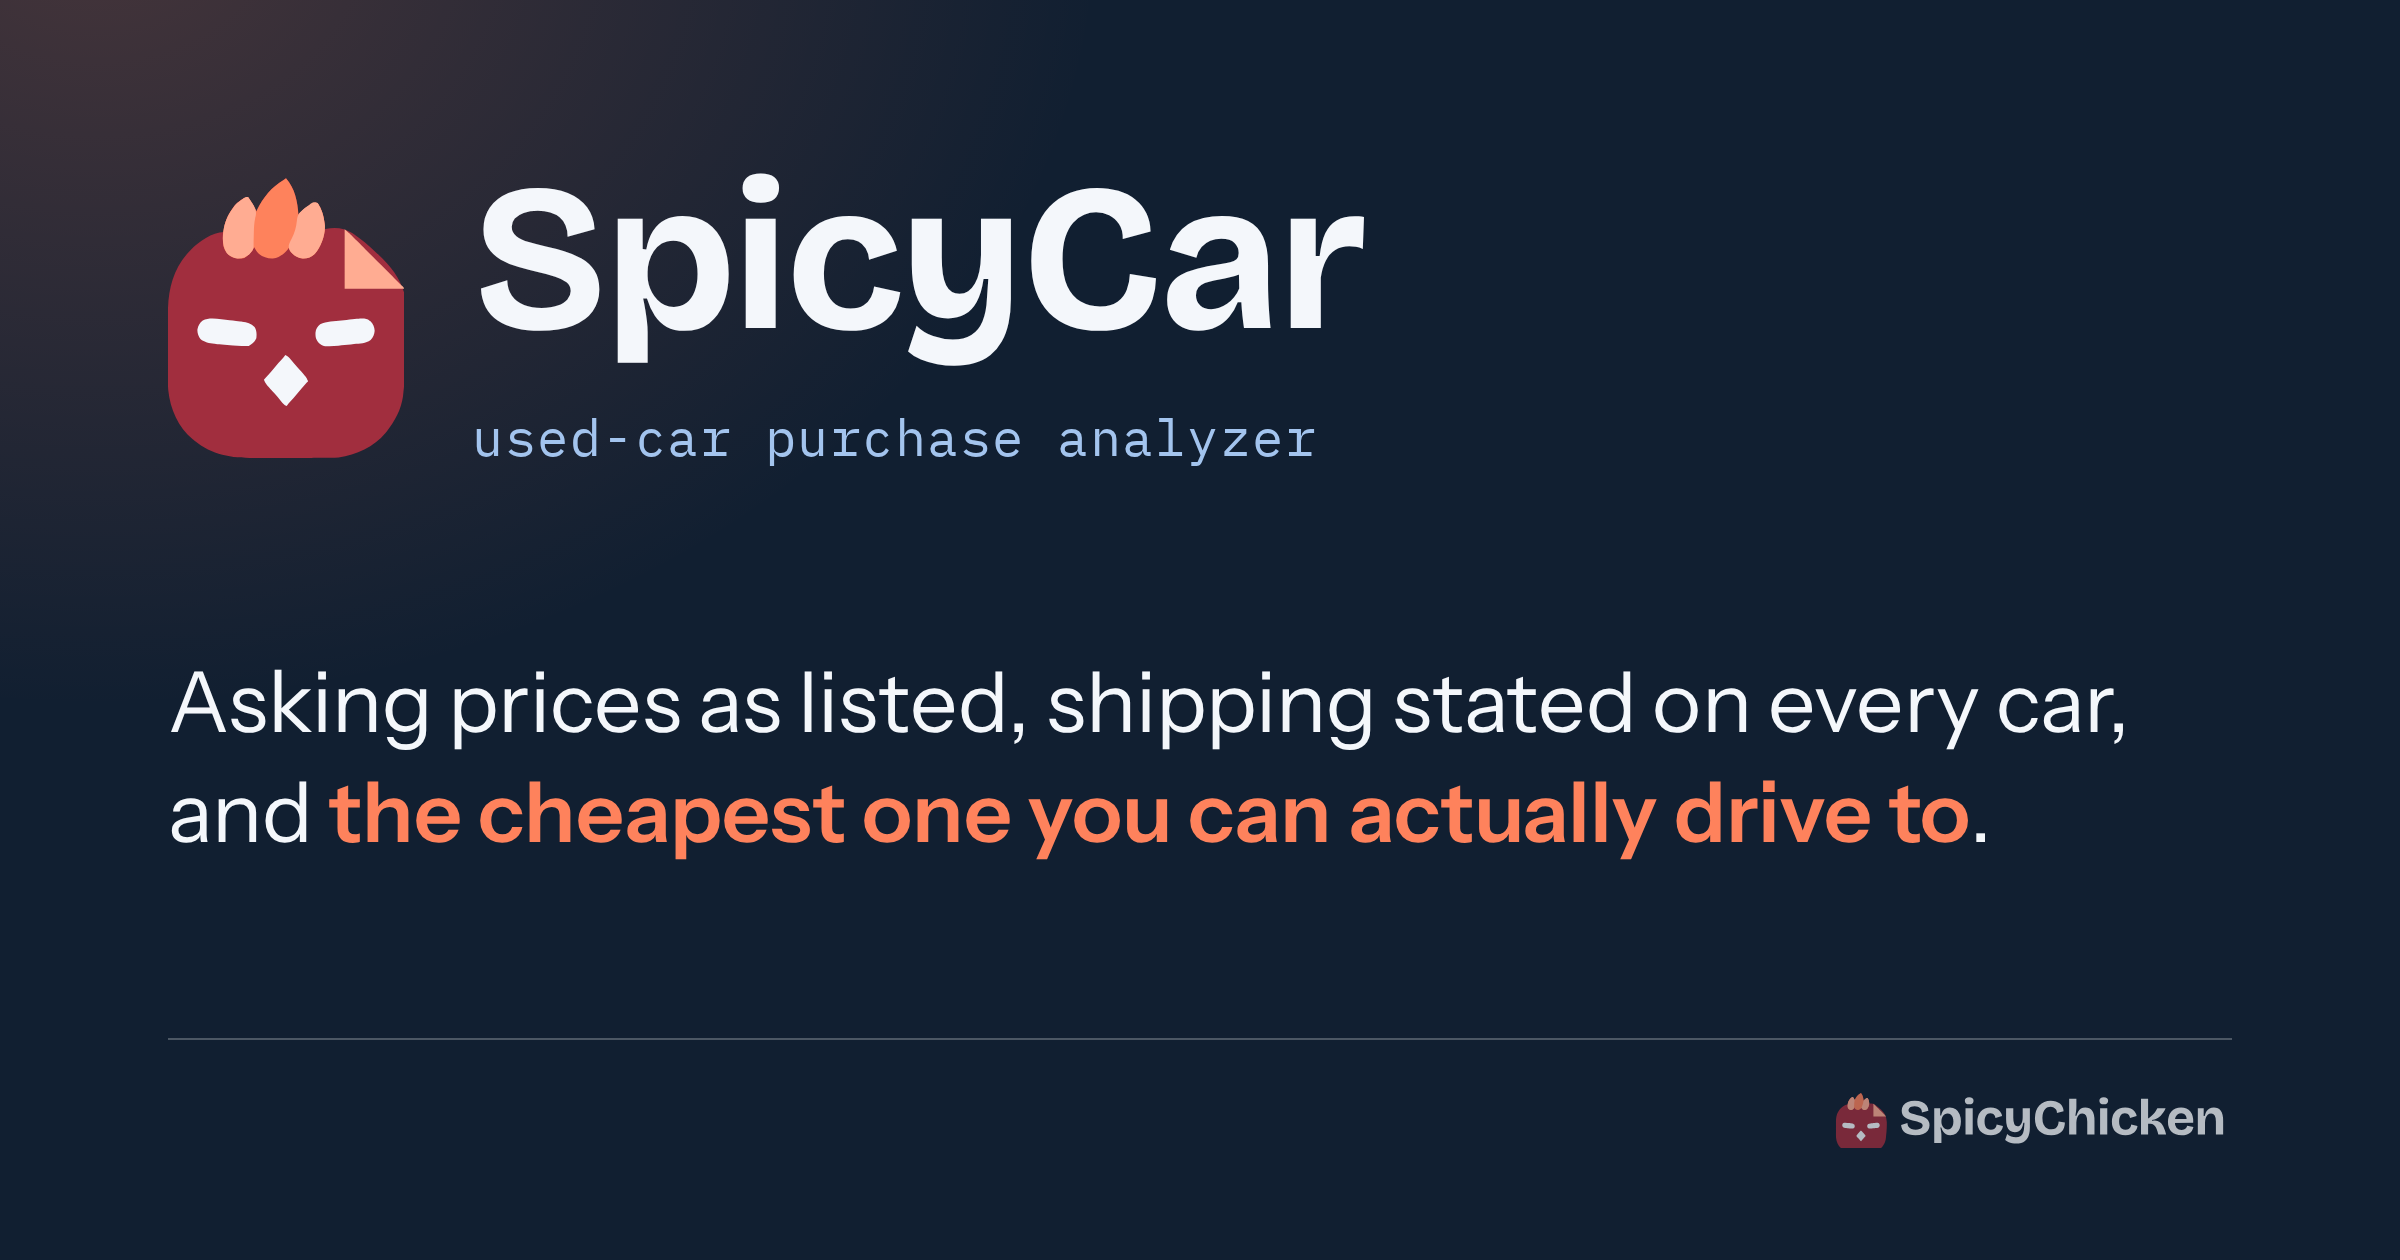
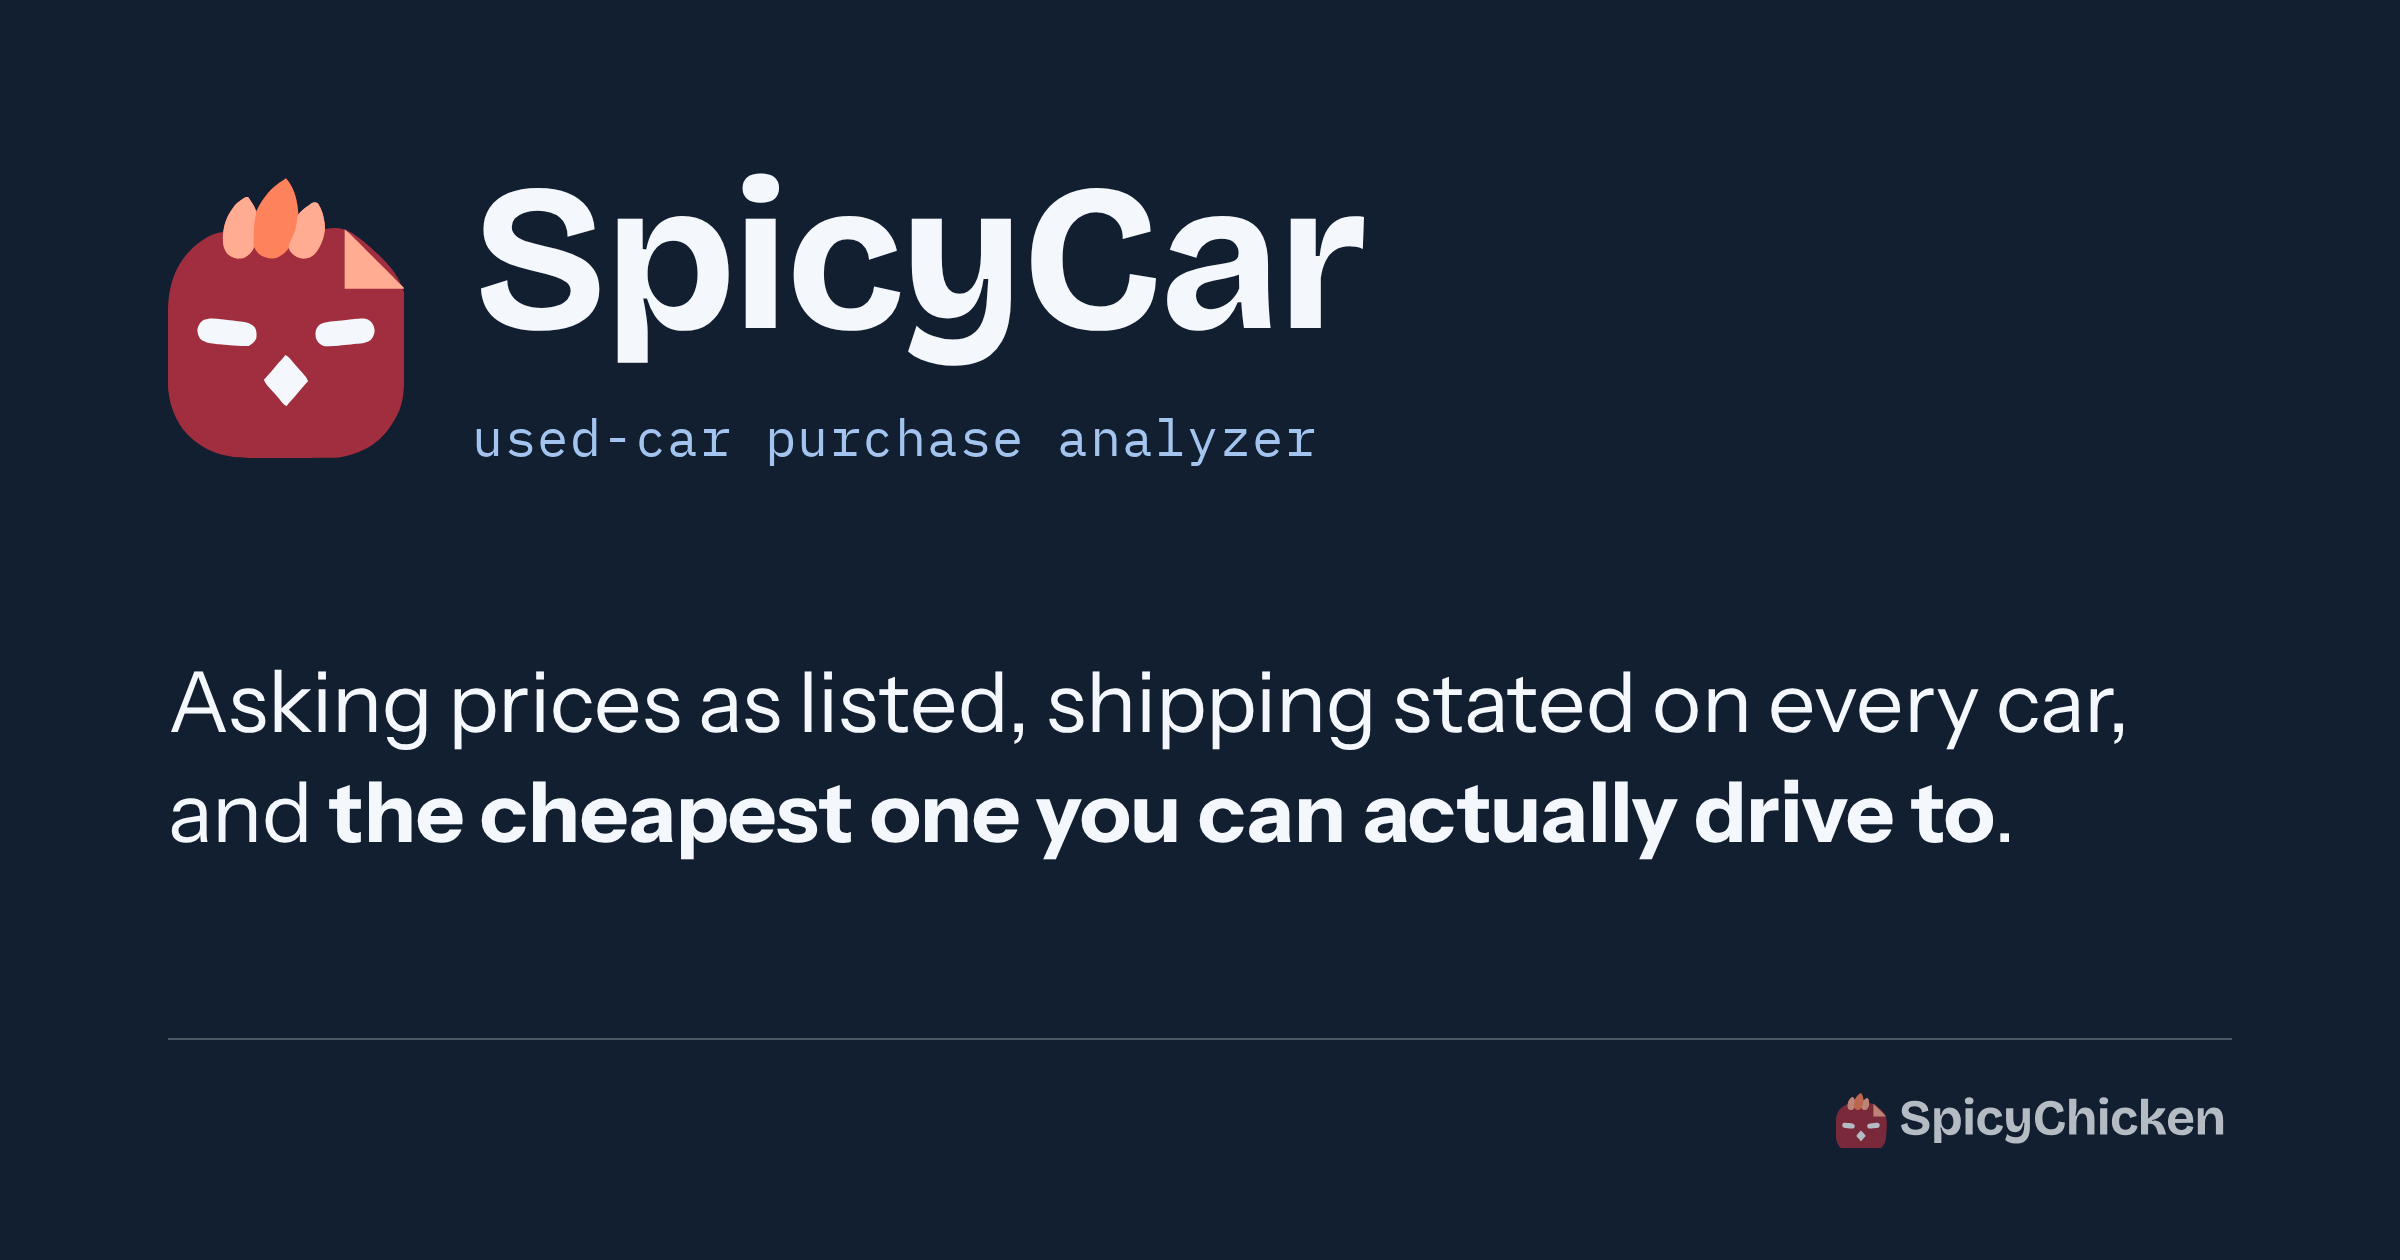
The footer wears the watermark, the share card is flat ink, and an empty result is a sentence
Five places where the pages had drifted from the SpicyChicken standard, each
checked against DESIGN_SYSTEM.md before it was touched.

The footer: §9 fixes its form for every page — the mono mark at 20px beside
the wordmark in the display face, 70% opacity, identical everywhere — and
starter.html carries exactly that markup. Both pages had the horizontal
lockup in that slot, the cover asset for README headers and decks, so this
project's footer wore a different mark from every other SpicyChicken page.

The share card: a radial spice tint sat behind the mark and the tagline's
bold phrase wore --sc-accent. §2's hard rule is flat fills only, no
decorative gradients, and spice never colours body text — two rules the page
itself has never broken. The gradient goes; the emphasis is weight; the
card's one heat moment is the chick's own comb. docs/og.png re-rendered from
the source with the real faces, still data-free.

The empty states: renderEmptyNotice wrapped all three of its cases in the
2px danger notice. A dead link is a failure and keeps it; an empty trim chip
or filters matching no car are the reader's own selection returning nothing,
and painting a red box over a page that did what it was asked is the
apology §6 says not to make. Both are one muted sentence now, with their way
out still riding inside it.

One spice callout per view: the shortlist card was a second
.sc-callout--spice above the fold on the page whose one next action is
[…]

Changed region(s): [[0.0, 0.0, 0.2812, 0.2786], [0.125, 0.619, 0.8438, 0.681]]

diff --git a/docs/index.html b/docs/index.html
@@ -614,8 +614,15 @@
 
 <footer class="sc-foot">
   <span><span id="foot-left">Source: auto.dev listings API · runs daily 11:00 UTC via GitHub Actions</span> · <a href="how.html">How it works</a> · <a href="https://github.com/spicyChicken59/SpicyCar" rel="noopener">GitHub</a></span>
-  <a class="sc-watermark" href="https://github.com/spicyChicken59" rel="author" aria-label="SpicyChicken">
-    <img class="sc-lockup" src="https://cdn.jsdelivr.net/gh/spicyChicken59/design-system@v2.4.0/assets/sc-lockup-cream.svg" alt="SpicyChicken">
+  <!-- The watermark, in the form DESIGN_SYSTEM.md §9 fixes for every page: the
+       mono mark at 20px (sized by the sheet, no inline height) beside the
+       wordmark set in the display face. The horizontal lockup that stood here
+       is the cover asset — README headers and decks — and a footer wearing it
+       was one project's footer wearing a different mark from every other. The
+       footer is ink in both schemes, so the cream mono form needs no flip. -->
+  <a class="sc-watermark" href="https://github.com/spicyChicken59" rel="author">
+    <img class="sc-mark" src="https://cdn.jsdelivr.net/gh/spicyChicken59/design-system@v2.4.0/assets/sc-mark-mono-cream.svg" alt="">
+    <span class="sc-watermark__name">SpicyChicken</span>
   </a>
 </footer>
 
@@ -3202,7 +3209,13 @@
     const host = $('shortlist'); host.textContent = '';
     const map = shortlistMap(), vins = Object.keys(map);
     if (!show || !vins.length) { host.hidden = true; return; }
-    host.appendChild(el('div', { class: 'sc-callout sc-callout--spice' },
+    // Core, not spice. The front page already has its one spice callout —
+    // #next-callout, the page's one next action (DESIGN_SYSTEM.md §6: "exactly
+    // one spice action per view") — and a second spice block above the fold
+    // made the two compete: if everything is spicy, nothing is. The shortlist
+    // is the reader's own standing decision, which is what a core callout is
+    // for; the star chips on the cars inside it keep their heat.
+    host.appendChild(el('div', { class: 'sc-callout sc-callout--core' },
       el('div', { class: 'sc-callout__label sc-with-mark' }, 'shortlist', markImg()),
       el('div', { class: 'sc-grid picks-grid' }, ...vins.map((v) => shortlistCard(v, map[v]))),
       el('p', { class: 'sc-hint' }, 'The specific cars being decided on, watched by VIN — your shortlist, pinned to the front page.')));
@@ -4995,12 +5008,18 @@
       return;
     }
     if (shown > 0 || !total) { n.hidden = true; return; }
+    // The reader's own selection returning nothing is not a failure, and it
+    // does not get the failure's furniture: .sc-notice is the 2px danger
+    // border and eyebrow the dead-link branch above earns, and it was also
+    // wrapping these two, so pressing an empty trim chip painted a red box
+    // over a page that had done exactly what it was asked. §6: nothing to show
+    // is one sentence in muted text, no graphic, no apology — with the way out
+    // riding inside it, as before.
     if (trimsEmpty) {
-      n.appendChild(el('div', { class: 'sc-notice' },
-        el('div', { class: 'sc-eyebrow' }, picked.length > 1 ? 'no cars in these trims right now' : 'no cars in this trim right now'),
-        el('p', null, `The watchlist holds ${num(total)} ${trimName} cars, but none of them are ${picked.map((id) => trimLabel(t, id)).join(' + ')}, `
+      n.appendChild(el('p', { class: 'sc-empty' },
+        `${picked.length > 1 ? 'No cars in these trims right now' : 'No cars in this trim right now'}: the watchlist holds ${num(total)} ${trimName} cars, but none of them are ${picked.map((id) => trimLabel(t, id)).join(' + ')}, `
           + 'so the picks, the map and the price chart below have nothing to draw. ',
-          showAllTrims(), '.')));
+          showAllTrims(), '.'));
       n.hidden = false;
       return;
     }
@@ -5015,9 +5034,8 @@
     // and on the overview there is no model to measure so `total` already is
     // what Clear restores (modelsInView keeps the model selection either way).
     const restorable = t ? trimRows(t.listings || []).length : total;
-    n.appendChild(el('div', { class: 'sc-notice' },
-      el('div', { class: 'sc-eyebrow' }, 'nothing matches these filters'),
-      el('p', null, `All ${num(restorable)} cars are filtered out, so the picks, the map and the price chart below have nothing to draw. `,
+    n.appendChild(el('p', { class: 'sc-empty' },
+      `All ${num(restorable)} cars are filtered out, so the picks, the map and the price chart below have nothing to draw. `,
         el('a', { class: 'sc-link--quiet', href: '#', 'data-fkey': 'notice:clear', onclick: (e) => {
           e.preventDefault();
           S.where = new Set(); S.year = 'all'; S.miles = 0; S.clean = false; S.rental = false; S.cpo = false; S.hideNew = false;
@@ -5026,7 +5044,7 @@
           // and clearing it here would land them on the watchlist with no way
           // back — this path replaces the history entry rather than pushing one.
           savePrefs(); buildFilters(); rerender(S.brand === 'all' ? 'rows' : 'trim');
-        } }, 'Clear the filters'), '.')));
+        } }, 'Clear the filters'), '.'));
     n.hidden = false;
   }
   function orderSections(view) {
@@ -5654,8 +5672,13 @@
     // chick marks — <img src>, which no stylesheet can swap. Re-pointing two
     // attributes also means a flip can no longer throw away the reader's map
     // zoom, which a full re-render could.
-    const syncMarks = () => {
-      const light = isLightTheme();
+    // `forceLight` is for print: sc.css prints in the light tokens whatever
+    // the theme, but an <img src> is not a stylesheet, so a page in "auto" on
+    // a dark OS printed the dark-surface forms of both marks onto white paper
+    // (sc-theme.js flips data-theme for print only when the theme is PINNED
+    // dark, and the observer below already covers that case).
+    const syncMarks = (forceLight) => {
+      const light = forceLight === undefined ? isLightTheme() : forceLight;
       for (const img of document.querySelectorAll('img[data-mark]')) {
         const kind = img.getAttribute('data-mark');
         img.src = ASSETS + (kind === 'color'
@@ -5663,8 +5686,10 @@
           : (light ? 'sc-mark-mono-ink.svg' : 'sc-mark-mono-cream.svg'));
       }
     };
-    new MutationObserver(syncMarks).observe(root, { attributes: true, attributeFilter: ['data-theme'] });
-    window.matchMedia('(prefers-color-scheme: light)').addEventListener('change', syncMarks);
+    new MutationObserver(() => syncMarks()).observe(root, { attributes: true, attributeFilter: ['data-theme'] });
+    window.matchMedia('(prefers-color-scheme: light)').addEventListener('change', () => syncMarks());
+    window.addEventListener('beforeprint', () => syncMarks(true));
+    window.addEventListener('afterprint', () => syncMarks());
   }
 
   // `where` names what failed. It used to be the string "Could not load

diff --git a/tools/og_card.html b/tools/og_card.html
@@ -49,18 +49,12 @@
     width: 1200px; height: 630px; box-sizing: border-box;
     padding: 78px 84px 56px;
     display: flex; flex-direction: column;
+    /* Flat ink. A radial spice tint used to sit behind the mark — a
+       decorative gradient, which DESIGN_SYSTEM.md §2's hard rule forbids
+       outright ("no decorative gradients, flat fills only"), and one the page
+       itself never breaks. The card's one heat moment is the chick's own comb,
+       which is spice by construction (§9); it needs no glow thrown behind it. */
     background: var(--sc-ink);
-    /* The one spice note the brand allows, thrown from behind the mark so the
-       lockup at the foot is not competing with it. Semantic token, not a
-       primitive and not a literal: #og-card carries .sc-on-ink, so --sc-accent
-       is spice-400 in BOTH colour schemes (DESIGN_SYSTEM.md §2, "the on-ink
-       context") — which is what an ink card needs, since the page-level
-       --sc-accent flips to spice-700 under prefers-color-scheme: light and
-       would go muddy on this ground. color-mix is the sheet's own idiom for a
-       tint; a raw rgba() here is the exact HYGIENE finding
-       tools/consumer_lint_ci.mjs blocks on the pages. */
-    background-image: radial-gradient(900px 700px at 4% -6%,
-      color-mix(in srgb, var(--sc-accent) 22%, transparent), transparent 56%);
     color: var(--sc-on-ink);
     font-family: var(--sc-font-body);
   }
@@ -78,7 +72,10 @@
     font-size: 42px; line-height: 1.32; margin: auto 0; max-width: 1000px;
     color: var(--sc-on-ink);
   }
-  #og-card .card-say b { font-weight: 600; color: var(--sc-accent); }   /* == spice-400 on ink, both schemes */
+  /* Bold, in the text colour. §2: spice never colours body text — the
+     emphasis is the weight, the same way a .sc-figure is emphasis beside a
+     chart without wearing the chart's hue. */
+  #og-card .card-say b { font-weight: 700; }
   #og-card .card-foot {
     display: flex; justify-content: flex-end; align-items: center;
     border-top: 1px solid var(--sc-ink-line-strong); padding-top: 24px;

diff --git a/docs/how.html b/docs/how.html
@@ -278,8 +278,15 @@
 
 <footer class="sc-foot">
   <span>Source: auto.dev listings API · runs daily 11:00 UTC via GitHub Actions · <a href="https://github.com/spicyChicken59/SpicyCar" rel="noopener">GitHub</a></span>
-  <a class="sc-watermark" href="https://github.com/spicyChicken59" rel="author" aria-label="SpicyChicken">
-    <img class="sc-lockup" src="https://cdn.jsdelivr.net/gh/spicyChicken59/design-system@v2.4.0/assets/sc-lockup-cream.svg" alt="SpicyChicken">
+  <!-- The watermark, in the form DESIGN_SYSTEM.md §9 fixes for every page: the
+       mono mark at 20px (sized by the sheet, no inline height) beside the
+       wordmark set in the display face. The horizontal lockup that stood here
+       is the cover asset — README headers and decks — and a footer wearing it
+       was one project's footer wearing a different mark from every other. The
+       footer is ink in both schemes, so the cream mono form needs no flip. -->
+  <a class="sc-watermark" href="https://github.com/spicyChicken59" rel="author">
+    <img class="sc-mark" src="https://cdn.jsdelivr.net/gh/spicyChicken59/design-system@v2.4.0/assets/sc-mark-mono-cream.svg" alt="">
+    <span class="sc-watermark__name">SpicyChicken</span>
   </a>
 </footer>
 </body>
